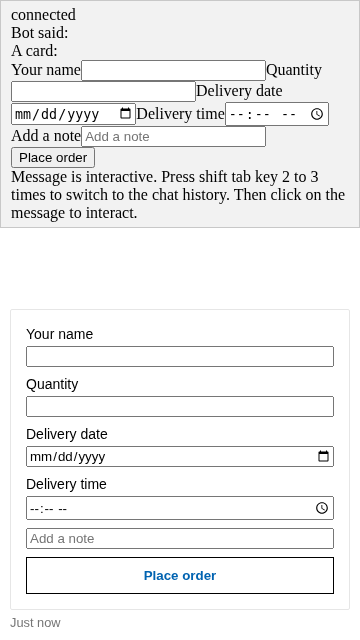
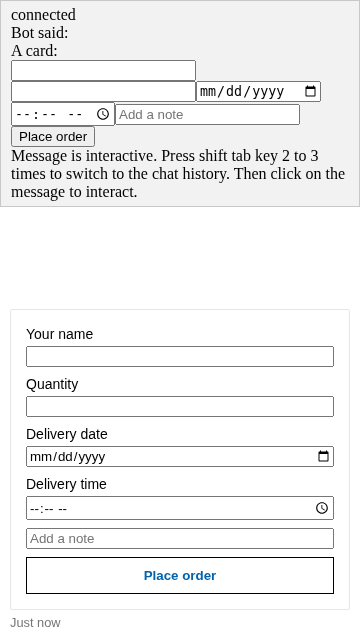
Read Adaptive Card input labels once in the live region
The live region copy rendered each label as text next to the input it names, so screen readers read the label twice. Name text, number, date, and time inputs with aria-label instead; inputs without a label stay named by their placeholder.

Changed region(s): [[0.0, 0.0938, 0.9472, 0.3438], [0.0306, 0.0938, 0.2444, 0.125], [0.9778, 0.3125, 1.0, 0.3438]]

diff --git a/packages/bundle/src/adaptiveCards/AttachmentForScreenReader/AdaptiveCardAttachment.js b/packages/bundle/src/adaptiveCards/AttachmentForScreenReader/AdaptiveCardAttachment.js
@@ -119,20 +119,29 @@ const AdaptiveCardAttachment = ({ content }) => {
   return (
     <article>
       <div>{cardLabel}</div>
-      {/* Inputs are named and pre-filled as in the rendered card: named by their label, otherwise by their placeholder. */}
+      {/* Inputs are named and pre-filled as in the rendered card: named by their label, otherwise by their placeholder.
+          The label is not rendered as text, otherwise screen readers read it twice: as text and as the input name. */}
       {inputs.map((input, index) =>
         input instanceof ChoiceSetInput ? (
           <AdaptiveCardChoiceSetInput input={input} key={index} />
         ) : input instanceof DateInput ? (
-          <label key={index}>
-            {input.label || input.placeholder}
-            <input defaultValue={input.defaultValue} placeholder={input.placeholder} tabIndex={-1} type="date" />
-          </label>
+          <input
+            aria-label={input.label || undefined}
+            defaultValue={input.defaultValue}
+            key={index}
+            placeholder={input.placeholder}
+            tabIndex={-1}
+            type="date"
+          />
         ) : input instanceof NumberInput ? (
-          <label key={index}>
-            {input.label || input.placeholder}
-            <input defaultValue={input.defaultValue} placeholder={input.placeholder} tabIndex={-1} type="number" />
-          </label>
+          <input
+            aria-label={input.label || undefined}
+            defaultValue={input.defaultValue}
+            key={index}
+            placeholder={input.placeholder}
+            tabIndex={-1}
+            type="number"
+          />
         ) : input instanceof OpenUrlAction || input instanceof ShowCardAction || input instanceof SubmitAction ? (
           <div key={index}>
             <button tabIndex={-1} type="button">
@@ -140,15 +149,23 @@ const AdaptiveCardAttachment = ({ content }) => {
             </button>
           </div>
         ) : input instanceof TextInput ? (
-          <label key={index}>
-            {input.label || input.placeholder}
-            <input defaultValue={input.defaultValue} placeholder={input.placeholder} tabIndex={-1} type="text" />
-          </label>
+          <input
+            aria-label={input.label || undefined}
+            defaultValue={input.defaultValue}
+            key={index}
+            placeholder={input.placeholder}
+            tabIndex={-1}
+            type="text"
+          />
         ) : input instanceof TimeInput ? (
-          <label key={index}>
-            {input.label || input.placeholder}
-            <input defaultValue={input.defaultValue} placeholder={input.placeholder} tabIndex={-1} type="time" />
-          </label>
+          <input
+            aria-label={input.label || undefined}
+            defaultValue={input.defaultValue}
+            key={index}
+            placeholder={input.placeholder}
+            tabIndex={-1}
+            type="time"
+          />
         ) : input instanceof ToggleInput ? (
           <label key={index}>
             {input.title}

diff --git a/__tests__/html2/accessibility/liveRegion/attachment/adaptiveCard.inputLabel.html b/__tests__/html2/accessibility/liveRegion/attachment/adaptiveCard.inputLabel.html
@@ -70,7 +70,8 @@
         await pageConditions.numActivitiesShown(1);
         await pageConditions.liveRegionStabilized();
 
-        const inputs = Array.from(pageElements.liveRegion().querySelectorAll('.webchat__live-region-activity input'));
+        const activity = pageElements.liveRegion().querySelector('.webchat__live-region-activity');
+        const inputs = Array.from(activity.querySelectorAll('input'));
 
         // THEN: The live region copy names every input as the card in the transcript does: by its label, otherwise by its placeholder.
         expect(await Promise.all(inputs.map(input => testHelpers.getAccessibleName(input)))).toEqual([
@@ -81,10 +82,17 @@
           'Add a note'
         ]);
 
+        // THEN: The labels are not repeated as text next to the inputs, so screen readers read each label once, as the input name.
+        expect(testHelpers.getAllTextContents(activity).map(text => text.trim())).toEqual([
+          'Bot said:',
+          'A card:',
+          'Place order' // The button.
+        ]);
+
         // THEN: The inputs in the copy are out of the tab order.
         expect(inputs.map(({ tabIndex }) => tabIndex)).toEqual([-1, -1, -1, -1, -1]);
 
-        // THEN: The live region shows the labels next to their inputs, and the accessibility check (no unlabeled inputs) passes.
+        // THEN: The live region shows the inputs without label text, only the placeholder of the last one, and the accessibility check (no unlabeled inputs) passes.
         await host.snapshot('local');
       });
     </script>
